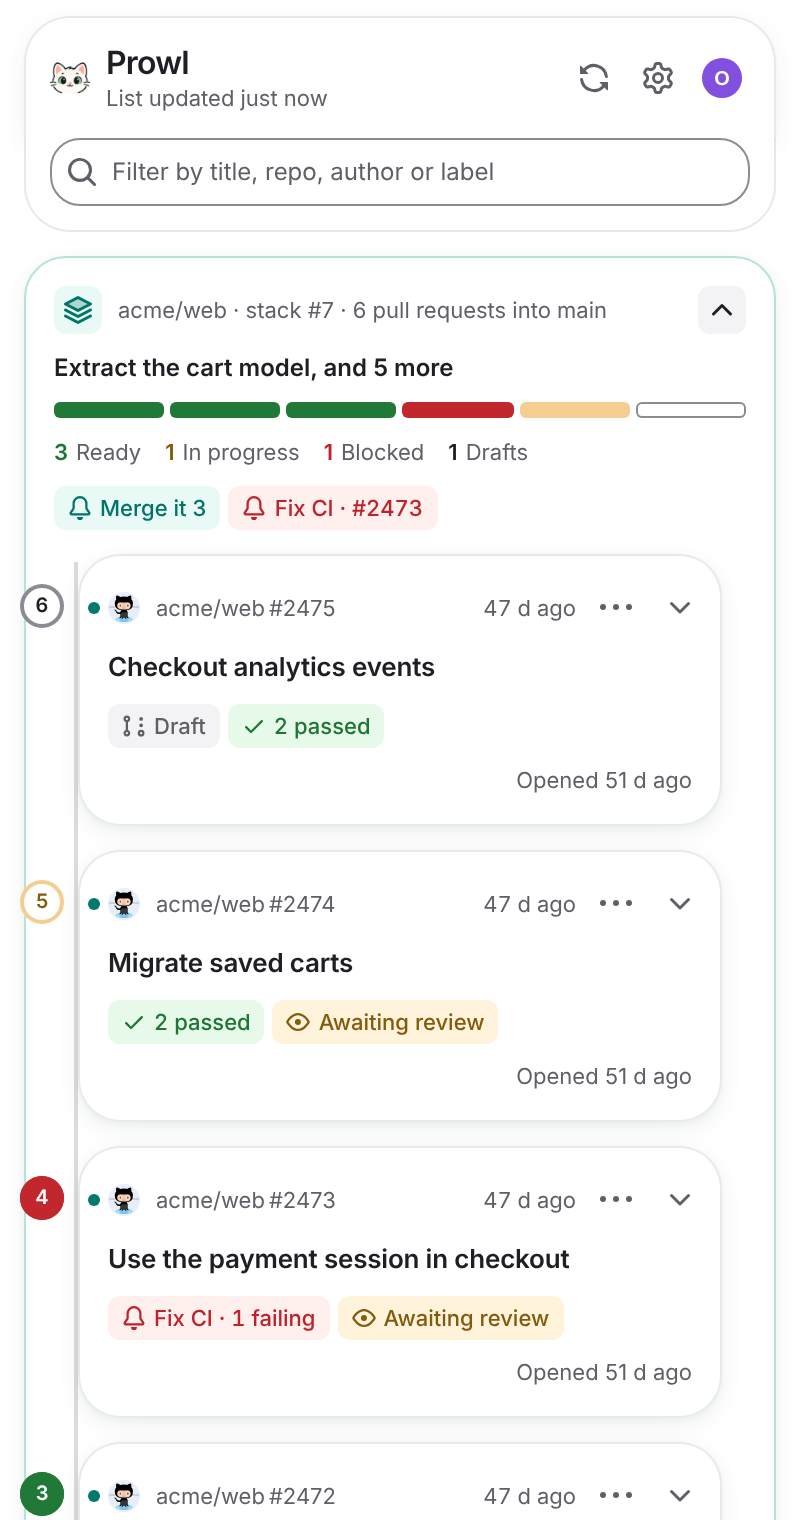
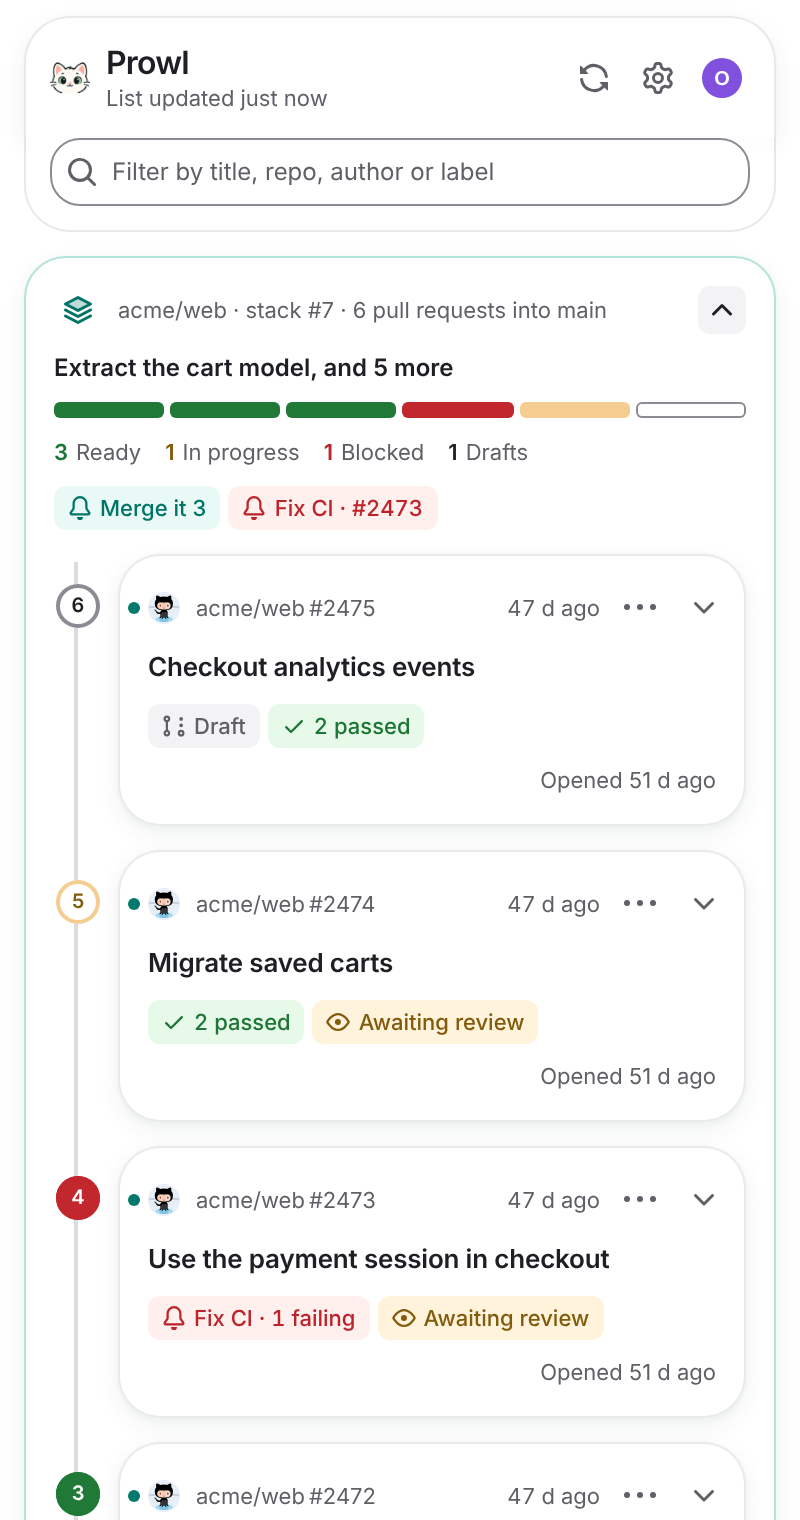
fix(ui): prefill the commit title with GitHub's, align the stack rail
- The merge dialog shows the title GitHub will use for the chosen method (from
  the repository's commit title settings), with no "empty uses the default"
  hint; an untouched title is left to GitHub.
- Stack position marks sit centered on the rail, inside the stack's border
  (.pr-list's padding overrode the rail's).
- The stack icon drops its tinted tile.

Claude-Session: https://claude.ai/code/session_01DJF4RucRW6yD1TF1hTz2fT

diff --git a/src/sidepanel/components/MergeAction.tsx b/src/sidepanel/components/MergeAction.tsx
@@ -32,24 +32,27 @@ const METHODS: Record<MergeMethod, string> = {
 function useMergeControls(pr: PullRequest) {
   const [confirming, setConfirming] = useState(false);
   const [picked, setPicked] = useState<MergeMethod>();
-  const [title, setTitle] = useState('');
+  // null until the user edits it: the field shows GitHub's own title for the chosen method.
+  const [edited, setTitle] = useState<string | null>(null);
   const pending = pendingActions.value[pr.id];
+  const titleFor = (method: MergeMethod) => edited ?? defaultCommitTitle(pr, method);
   // What is being sent cannot be taken back by closing the dialog.
   const close = () => pending === undefined && setConfirming(false);
   const merge = async (method: MergeMethod) => {
     const merged = await runPrAction(pr, t('merge'), t('merged'), (client) =>
-      mergePullRequest(client, pr.id, { method, headSha: pr.headSha, title }),
+      // Untouched, GitHub applies its own default, which is what the field showed.
+      mergePullRequest(client, pr.id, { method, headSha: pr.headSha, title: edited ?? undefined }),
     );
     setConfirming(false);
-    if (merged) setTitle('');
+    if (merged) setTitle(null);
     else void sendToBackground({ type: 'poll', force: true, afterCurrent: true });
   };
   const enableAutoMerge = async (method: MergeMethod) => {
     const enabled = await runPrAction(pr, t('enableAutoMerge'), t('autoMergeIsOnFor'), (client) =>
-      setAutoMerge(client, pr.id, method, pr.headSha, title),
+      setAutoMerge(client, pr.id, method, pr.headSha, edited ?? undefined),
     );
     setConfirming(false);
-    if (enabled) setTitle('');
+    if (enabled) setTitle(null);
   };
 
   return {
@@ -57,7 +60,7 @@ function useMergeControls(pr: PullRequest) {
     setConfirming,
     picked,
     setPicked,
-    title,
+    titleFor,
     setTitle,
     pending,
     close,
@@ -67,6 +70,12 @@ function useMergeControls(pr: PullRequest) {
 }
 
 type MergeControls = ReturnType<typeof useMergeControls>;
+
+/** The title GitHub gives the commit unless told otherwise (`PullRequestDetail.commitTitles`). */
+function defaultCommitTitle(pr: PullRequest, method: MergeMethod): string {
+  const titles = currentDetail(pr)?.commitTitles;
+  return (method === 'merge' ? titles?.merge : titles?.squash) ?? `${pr.title} (#${pr.number})`;
+}
 type Placement = 'merge' | 'auto' | 'all';
 type MergeDialogProps = {
   pr: PullRequest;
@@ -277,7 +286,7 @@ function MergeFields({
   controls,
   blockers,
 }: MergeDialogProps & { blockers: string[] }) {
-  const { pending, title, setPicked, setTitle } = controls;
+  const { pending, titleFor, setPicked, setTitle } = controls;
   const detail = currentDetail(pr);
   const methods = detail?.allowedMergeMethods ?? pr.allowedMergeMethods;
   return (
@@ -300,9 +309,8 @@ function MergeFields({
       )}
       {method !== 'rebase' && (
         <TextField
-          label={t('commitTitleOptional')}
-          hint={t('emptyUsesGithubSDefault')}
-          value={title}
+          label={t('commitTitle')}
+          value={titleFor(method)}
           readOnly={pending !== undefined}
           onValueChange={setTitle}
         />

diff --git a/src/lib/github/mapPullRequestDetail.ts b/src/lib/github/mapPullRequestDetail.ts
@@ -84,6 +84,7 @@ export function mapPullRequestDetail(
     requiredApprovals: rule?.requiredApprovingReviewCount ?? null,
     requiresConversationResolution: rule?.requiresConversationResolution ?? false,
     ...deploymentsOf(pages[0]),
+    ...commitTitlesOf(pages[0]),
     ...(node.isMergeQueueEnabled
       ? {
           mergeQueue: node.mergeQueueEntry
@@ -123,4 +124,22 @@ function deploymentsOf(node: DetailPullRequestNode): Pick<PullRequestDetail, 'de
       return [{ environment, state, url }];
     });
   return deployments.length ? { deployments } : {};
+}
+
+/**
+ * GitHub's own default titles, so the merge dialog starts on them: a squash takes the PR title
+ * (or, set to COMMIT_OR_PR_TITLE, the commit's when there is one commit), a merge commit "Merge
+ * pull request #N from owner/branch" (or the PR title); both add "(#N)" when they use a title.
+ */
+function commitTitlesOf(node: DetailPullRequestNode): Pick<PullRequestDetail, 'commitTitles'> {
+  const { number, title, repository: repo, firstCommit } = node;
+  if (number === undefined || title === undefined || !repo) return {};
+  const only =
+    firstCommit?.totalCount === 1 ? firstCommit.nodes?.[0]?.commit.messageHeadline : undefined;
+  const squash = `${repo.squashMergeCommitTitle === 'COMMIT_OR_PR_TITLE' && only ? only : title} (#${number})`;
+  const merge =
+    repo.mergeCommitTitle === 'PR_TITLE'
+      ? `${title} (#${number})`
+      : `Merge pull request #${number} from ${node.headRepositoryOwner?.login ?? 'ghost'}/${node.headRefName ?? ''}`;
+  return { commitTitles: { squash, merge } };
 }

diff --git a/src/lib/github/mapPullRequestDetail.test.ts b/src/lib/github/mapPullRequestDetail.test.ts
@@ -160,6 +160,30 @@ describe('mapPullRequestDetail', () => {
     expect(mapPullRequestDetail([detailNode()]).deployments).toBeUndefined();
   });
 
+  it("gives GitHub's default commit titles from the repository's settings", () => {
+    const node = (squash: string, merge: string, commits = 3) =>
+      detailNode({
+        number: 42,
+        title: 'Improve widgets',
+        headRefName: 'feature',
+        headRepositoryOwner: { login: 'octocat' },
+        repository: { squashMergeCommitTitle: squash, mergeCommitTitle: merge },
+        firstCommit: {
+          totalCount: commits,
+          nodes: [{ commit: { messageHeadline: 'Speed up widgets' } }],
+        },
+      });
+    expect(mapPullRequestDetail([node('PR_TITLE', 'MERGE_MESSAGE')]).commitTitles).toEqual({
+      squash: 'Improve widgets (#42)',
+      merge: 'Merge pull request #42 from octocat/feature',
+    });
+    expect(mapPullRequestDetail([node('COMMIT_OR_PR_TITLE', 'PR_TITLE', 1)]).commitTitles).toEqual({
+      squash: 'Speed up widgets (#42)',
+      merge: 'Improve widgets (#42)',
+    });
+    expect(mapPullRequestDetail([detailNode()]).commitTitles).toBeUndefined();
+  });
+
   it('merges the checks of every page and reports the total of the first', () => {
     const all = Array.from({ length: 5 }, (_, i) => checkRunNode(`job-${i}`));
     const detail = mapPullRequestDetail([

diff --git a/src/lib/github/detailQuery.ts b/src/lib/github/detailQuery.ts
@@ -31,6 +31,9 @@ query ProwlPullRequestDetail($id: ID!, $after: String) {
       baseRef { branchProtectionRule { requiredApprovingReviewCount requiresConversationResolution } }
       isMergeQueueEnabled
       mergeQueueEntry { position state estimatedTimeToMerge }
+      number title headRefName headRepositoryOwner { login }
+      repository { squashMergeCommitTitle mergeCommitTitle }
+      firstCommit: commits(first: 1) { totalCount nodes { commit { messageHeadline } } }
       commits(last: 1) {
         nodes {
           commit {
@@ -83,6 +86,16 @@ export interface DetailPullRequestNode {
   reviewRequests: Nodes<{
     requestedReviewer: Partial<Login & { avatarUrl: string }> | null;
   }> | null;
+  /** What GitHub titles the merge commit with (absent in older fixtures). */
+  number?: number;
+  title?: string;
+  headRefName?: string;
+  headRepositoryOwner?: Login | null;
+  repository?: { squashMergeCommitTitle: string; mergeCommitTitle: string };
+  firstCommit?: {
+    totalCount: number;
+    nodes: ({ commit: { messageHeadline: string } } | null)[] | null;
+  };
   /** The base branch merges through a queue; absent in older fixtures. */
   isMergeQueueEnabled?: boolean;
   mergeQueueEntry?: { position: number; state: string; estimatedTimeToMerge: number | null } | null;

diff --git a/src/sidepanel/components/StackItem.css b/src/sidepanel/components/StackItem.css
@@ -25,8 +25,6 @@
   justify-content: center;
   width: 24px;
   height: 24px;
-  border-radius: var(--radius-md);
-  background: var(--color-accent-bg);
   color: var(--color-accent-fg);
 }
 
@@ -110,10 +108,11 @@
 }
 
 /* Members: the usual cards on a rail numbered by position, top of the stack first. */
-.stack-item__list {
+/* `.stack-item` raises the specificity over `.pr-list`'s own padding, which loads later. */
+.stack-item .stack-item__list {
   position: relative;
   margin: 0;
-  padding-left: 30px;
+  padding: var(--space-1) 0 0 32px;
 }
 
 .stack-item__list::before {
@@ -124,6 +123,7 @@
   left: 10px;
   width: 2px;
   background: var(--color-border);
+  /* Centered under the 22 px position marks (0 to 22 px from the list's edge). */
 }
 
 .stack-item__list > .pr-card {
@@ -134,7 +134,7 @@
   content: attr(data-stack-position);
   position: absolute;
   top: 14px;
-  left: -30px;
+  left: -32px;
   display: flex;
   align-items: center;
   justify-content: center;
@@ -161,7 +161,7 @@
 .stack-item__note,
 .stack-item__base {
   margin: 0;
-  padding-left: 30px;
+  padding-left: 32px;
   color: var(--color-fg-muted);
   font-size: var(--text-sm);
 }

diff --git a/src/lib/model.ts b/src/lib/model.ts
@@ -180,6 +180,8 @@ export interface PullRequestDetail {
    * it is not queued. Absent: no queue.
    */
   mergeQueue?: { position: number; estimatedSeconds: number | null } | null;
+  /** The commit title GitHub would use for a squash or a merge commit, from the repository's settings. */
+  commitTitles?: { squash: string; merge: string };
   /** Where the head commit is deployed (GitHub Deployments), newest first, one per environment. */
   deployments?: { environment: string; state: CheckItemState; url: string | null }[];
   warnings?: string[];

diff --git a/src/sidepanel/components/MergeAction.test.tsx b/src/sidepanel/components/MergeAction.test.tsx
@@ -235,7 +235,7 @@ describe('merging', () => {
     fireEvent.click(confirm());
     await waitFor(() => expect(screen.queryByRole('dialog')).toBeNull());
     fireEvent.click(opener());
-    expect((commitTitle() as HTMLInputElement).value).toBe('');
+    expect((commitTitle() as HTMLInputElement).value).toBe('Improve the widgets (#1)');
   });
 });
 

diff --git a/docs/decisions.md b/docs/decisions.md
@@ -303,4 +303,5 @@ One line each, with the reason. Product decisions from the brief are not repeate
 - 2026-11-21 — A stale list refreshes on its own: the panel forces a poll when it opens or becomes visible on a list older than a minute, the worker polls when a Chrome window regains focus after the list aged past the poll interval (`windows.onFocusChanged`: no permission, only a window id), and while CI runs on a listed PR the minute alarm polls too, so builds turn red or green within a minute. After days with Chrome closed or the computer asleep, the panel showed "not updated for days" until the next alarm; it now catches up in seconds. Rate-limit waits still apply to every one of these polls.
 - 2026-11-21 — One chip per fact: when it is the viewer's move, the chip that states the fact becomes the action (same tone, a bell, "Fix CI · 1 failing", "Review", "Merge it") instead of a separate "your turn" chip beside it; "Review required" on someone else's PR reads "Awaiting review". Two chips for one fact ("Your review" + "Review required") read as two different things. The chain-of-branches "On #12" chip is removed: only GitHub's own stacks are stacks.
 - 2026-11-21 — A GitHub stack (GitHub's stacked pull requests, read from `stackEntry`) is one item of the list holding its pull requests, not a chip on each member: the maintainer reads a stack as one unit whose members are seen inside it. Members keep their full cards (details, actions) on a rail numbered by position. "Merge K of N" uses GitHub's asynchronous merge API on the top of the ready run, which merges or queues the run atomically; the GraphQL `mergePullRequest` refuses stacked PRs. The stack's title is its bottom PR's title, since GitHub names stacks only by number. The icon is Prowl's own layered sheets, stroked so it reads at 16 px.
+- 2026-11-21 — The merge dialog's commit title starts on GitHub's own default for the chosen method (the repository's `squashMergeCommitTitle` / `mergeCommitTitle` settings, the single commit's headline where GitHub would use it, "(#N)"), read with the card details, instead of an empty "optional" field with an "Empty uses GitHub's default" hint: the user sees what will be written and edits it. An untouched title is not sent, so GitHub's own rule applies even where Prowl's copy of it would differ.
 
